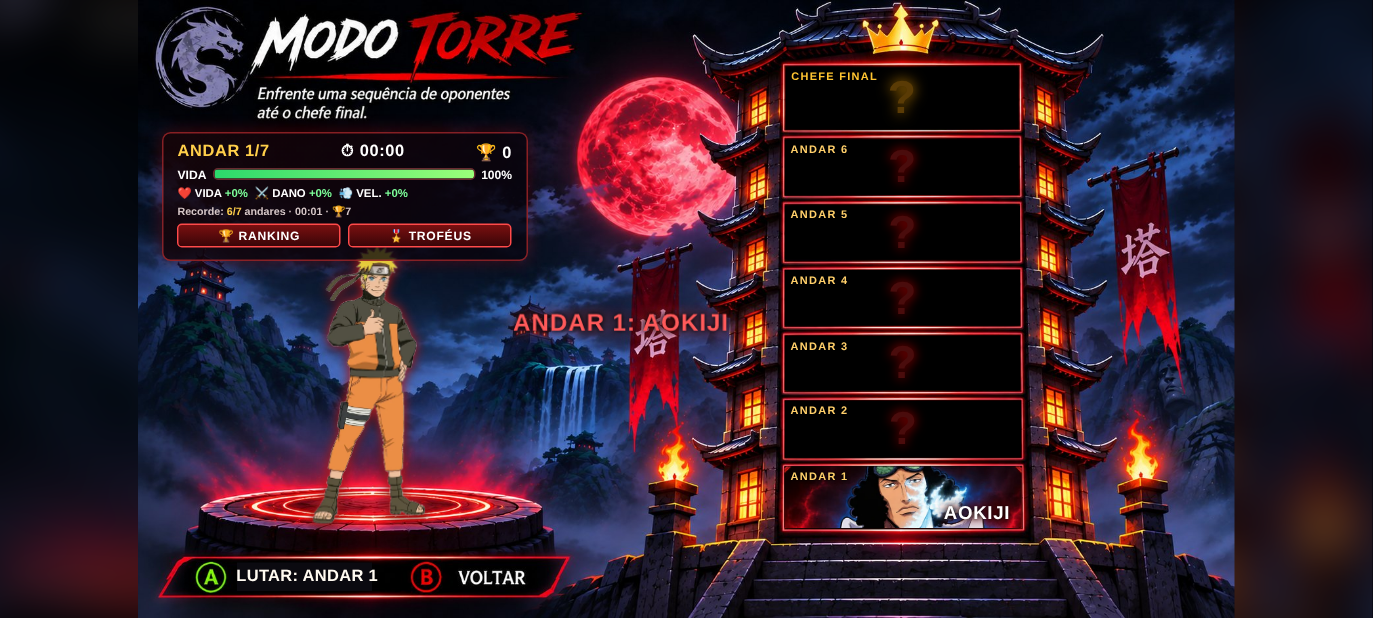
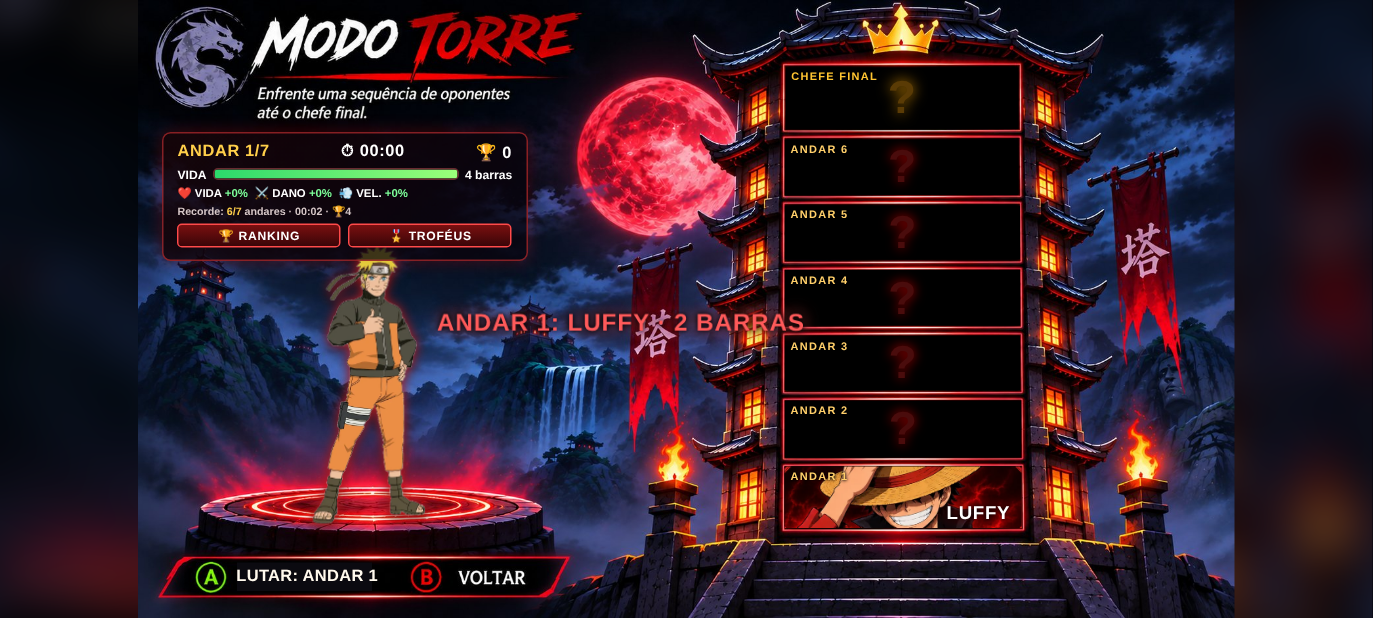
v172: Torre — jogador 4 barras, rivais 2→7 barras, chefe bem mais forte, carta de barra de vida extra
Claude-Session: https://claude.ai/code/session_01KtrZTmDkLnY2EE7eHvUsq1

diff --git a/www/index.html b/www/index.html
@@ -4811,10 +4811,10 @@ function drawHUD(){finOverlay();if(G.fzLines){const L=G.fzLines,u=L.t/L.life;ctx
     band(h0,h1,1,13,4);if(LY>=2){const gb=ctx.createLinearGradient(X(h0),0,X(h1),0);gb.addColorStop(0,'#178a2a');gb.addColorStop(1,'#3fbf52');ctx.fillStyle=gb}else ctx.fillStyle='#06100a';ctx.fill();
     if(lag>fr){band(h0+hl*(side?0:0),h0+hl*lag,1,13,4);ctx.fillStyle='#ff4757';ctx.fill()}
     if(fr>0){band(h0,h0+hl*fr,1,13,4);const crit=fr<.25,g=ctx.createLinearGradient(X(h0),0,X(h0+hl),0);
-      if(crit&&LY===1){const p=.5+.5*Math.sin(t*.25);g.addColorStop(0,'#ff2b2b');g.addColorStop(1,`rgb(255,${120+p*100|0},${120+p*100|0})`)}else if(LY>=2){const LC=[0,0,['#ff9d00','#ffd23f','#fff6c8'],['#ff3b8a','#ff7ab8','#ffe0ef'],['#7a3bff','#b07aff','#efe0ff']][Math.min(4,LY)];g.addColorStop(0,LC[0]);g.addColorStop(.55,LC[1]);g.addColorStop(1,LC[2])}else{g.addColorStop(0,'#21c93a');g.addColorStop(.55,'#5df06b');g.addColorStop(1,'#ffffff')}
+      if(crit&&LY===1){const p=.5+.5*Math.sin(t*.25);g.addColorStop(0,'#ff2b2b');g.addColorStop(1,`rgb(255,${120+p*100|0},${120+p*100|0})`)}else if(LY>=2){const LC=[0,0,['#ff9d00','#ffd23f','#fff6c8'],['#ff3b8a','#ff7ab8','#ffe0ef'],['#7a3bff','#b07aff','#efe0ff'],['#0090ff','#5fd8ff','#e0f8ff'],['#e01010','#ff6a4a','#ffe0d0'],['#ff9a00','#ffe066','#ffffff']][Math.min(7,LY)];g.addColorStop(0,LC[0]);g.addColorStop(.55,LC[1]);g.addColorStop(1,LC[2])}else{g.addColorStop(0,'#21c93a');g.addColorStop(.55,'#5df06b');g.addColorStop(1,'#ffffff')}
       ctx.fillStyle=g;ctx.fill();band(h0,h0+hl*fr,1,5,1.5);ctx.fillStyle='rgba(255,255,255,.35)';ctx.fill()}
     band(h0,h1,1,13,4);ctx.strokeStyle='rgba(255,255,255,.25)';ctx.lineWidth=1;ctx.stroke();if(f.form)hudBarFx(f,side,X,yt,h0,h1);
-    const NL=Math.round(MAXHP/LAYER);for(let i=0;i<NL;i++){const px=h1-10-i*15;band(px,px+10,-9,7,3);const on=i<LY;ctx.fillStyle=on?['#5df06b','#ffd23f','#ff7ab8','#b07aff'][i]:'rgba(255,255,255,.15)';if(on){ctx.save();ctx.shadowColor=ctx.fillStyle;ctx.shadowBlur=8;ctx.fill();ctx.restore()}else ctx.fill()}
+    const NL=Math.round((f.mhp||MAXHP)/LAYER);for(let i=0;i<NL;i++){const px=h1-10-i*15;band(px,px+10,-9,7,3);const on=i<LY;ctx.fillStyle=on?['#5df06b','#ffd23f','#ff7ab8','#b07aff','#5fd8ff','#ff5a4a','#ffe066'][i]:'rgba(255,255,255,.15)';if(on){ctx.save();ctx.shadowColor=ctx.fillStyle;ctx.shadowBlur=8;ctx.fill();ctx.restore()}else ctx.fill()}
     // KI segments
     const n=6,kl=hl*.62,gw=6,sw=(kl-gw*(n-1))/n;
     const KX=(a,i)=>{const x=f.kx||0;for(const [L,c1,c2] of [[0,'#ffb07a','#ff4a14'],[1,'#e8fbff','#2fb4ff']]){const q=clamp((x-L*100-i*100/n)/(100/n),0,1);if(q<=0)continue;band(a,a+sw*q,19,8,4);const g=ctx.createLinearGradient(0,yt(a)+19,0,yt(a)+27);g.addColorStop(0,c1);g.addColorStop(1,c2);ctx.fillStyle=g;if(f.spark>0){ctx.save();ctx.shadowColor=c2;ctx.shadowBlur=12+6*Math.sin(t*.4);ctx.fill();ctx.restore()}else ctx.fill()}};
@@ -5160,7 +5160,7 @@ function endRound(){
   if(w>=0)G.wins[w]++;
   if(G.wins[0]>=2||G.wins[1]>=2){showResult();return}
   G.round++;startRound()}
-function timeOver(){G.phase='ko';G.phaseT=0;const bh=s=>TAG.on&&TAG.bench[s]&&!TAG.bench[s].ko?TAG.bench[s].hp:0,a=G.p[0].hp+bh(0),b=G.p[1].hp+bh(1);G.koWinner=a===b?-1:a>b?0:1;banner('TEMPO!','#ffd23f',90);SFX.bell();annc('a_time',.1)}
+function timeOver(){G.phase='ko';G.phaseT=0;const bh=s=>TAG.on&&TAG.bench[s]&&!TAG.bench[s].ko?TAG.bench[s].hp:0,a=(G.p[0].hp+bh(0))/(G.p[0].mhp||MAXHP),b=(G.p[1].hp+bh(1))/(G.p[1].mhp||MAXHP);G.koWinner=a===b?-1:a>b?0:1;banner('TEMPO!','#ffd23f',90);SFX.bell();annc('a_time',.1)}
 function phaseLogic(){
   G.phaseT++;
   if(G.phase==='intro'){if(G.phaseT===52)annc('a_ready');if(G.phaseT===76){SFX.boom();annc('a_fight');G.flash=Math.max(G.flash,4);G.flashCol='#ffffff';G.shake=Math.max(G.shake,6)}if(G.phaseT>=104){G.phase='fight';twBossGo()}}
@@ -5168,7 +5168,7 @@ function phaseLogic(){
   else if(G.phase==='ko'){
     const w=G.koWinner;
     if(G.phaseT<120&&w>=0){const l=G.p[1-w];G.tz=G.phaseT<26?1.3:1.12;G.tzx=sxs(l.x);G.tzy=sys(l.y-110)}else if(G.phaseT>=150&&w>=0){const wf=G.p[w];G.tz=1.14;G.tzx=sxs(wf.x);G.tzy=sys(wf.y-150)}else G.tz=1;
-    if(G.phaseT===150){if(w>=0){const wf=G.p[w];wf.state='win';wf.st=0;wf.vx=0;flashL(wf.x,wf.y-130,E(wf),420,.8,40);ring(wf.x,wf.y-120,E2(wf),180,24,6);{const lf=G.p[1-w];if(!lf.ko&&lf.grounded){lf.state='lose';lf.st=0;lf.vx=0}}if(!wf.grounded){wf.flying=false}banner(wf.hp>=MAXHP?'PERFEITO!':wf.def.name+' VENCE!',E2(wf),110);if(wf.hp>=MAXHP)annc('a_perfect',.1);else if(G.wins[w]+1<2)nv(['vEVictory','vEWinner'][(Math.random()*2)|0],.1);fvox(wf,pick(['f_easy','f_stay','f_come']),true)}else{banner('EMPATE','#ffffff',90);annc('a_draw',.1)}}
+    if(G.phaseT===150){if(w>=0){const wf=G.p[w];wf.state='win';wf.st=0;wf.vx=0;flashL(wf.x,wf.y-130,E(wf),420,.8,40);ring(wf.x,wf.y-120,E2(wf),180,24,6);{const lf=G.p[1-w];if(!lf.ko&&lf.grounded){lf.state='lose';lf.st=0;lf.vx=0}}if(!wf.grounded){wf.flying=false}banner(wf.hp>=(wf.mhp||MAXHP)?'PERFEITO!':wf.def.name+' VENCE!',E2(wf),110);if(wf.hp>=(wf.mhp||MAXHP))annc('a_perfect',.1);else if(G.wins[w]+1<2)nv(['vEVictory','vEWinner'][(Math.random()*2)|0],.1);fvox(wf,pick(['f_easy','f_stay','f_come']),true)}else{banner('EMPATE','#ffffff',90);annc('a_draw',.1)}}
     if(G.phaseT>=270)endRound()}
 }
 function annWatch(){if(G.mode!=='fight')return;const ws=G.ws,k=ws?(ws.gg||ws.vg||ws.br||1):0;
@@ -5248,7 +5248,8 @@ const TWTR={win:{n:'Vitória',i:'🏆',d:'Vencer um andar',p:1},rap:{n:'Relâmpa
   fio:{n:'Por um Fio',i:'🩸',d:'Vencer com menos de 15% de vida',p:2},cmb:{n:'Mestre do Combo',i:'👊',d:'Fazer um combo de 10 golpes ou mais',p:1},ult:{n:'Ultimate!',i:'💥',d:'Usar uma Ultimate na luta',p:1},
   boss:{n:'Caçador de Chefe',i:'👑',d:'Derrotar o chefe final',p:3},bossr:{n:'Rei Relâmpago',i:'🔥',d:'Derrotar o chefe em menos de 60 segundos',p:4},
   tor:{n:'Torre Conquistada',i:'🏯',d:'Vencer os 7 andares',p:5},spd:{n:'Speedrun',i:'⏱',d:'Completar a torre em menos de 6 minutos',p:5},lend:{n:'Bênção Lendária',i:'🌟',d:'Ganhar uma passiva lendária',p:1}};
-const TW={on:false,pick:null,opps:[],fl:0,rev:false,hp:1,pas:{vida:0,dano:0,vel:0},time:0,tr:[],fs:null,busy:false,sent:false,diff0:1,last:null};
+const TWOB=[2,3,3,4,5,6,7],TWPB=4,TWMB=7;
+const TW={on:false,pick:null,opps:[],fl:0,rev:false,hp:1,bars:TWPB,hpv:TWPB*LAYER,pas:{vida:0,dano:0,vel:0},time:0,tr:[],fs:null,busy:false,sent:false,diff0:1,last:null};
 window.__TW=TW;
 const twLS={g:(k,d)=>{try{const v=localStorage.getItem(k);return v==null?d:JSON.parse(v)}catch(e){return d}},s:(k,v)=>{try{localStorage.setItem(k,JSON.stringify(v))}catch(e){}}};
 const twEsc=s=>String(s).replace(/[&<>"']/g,c=>({'&':'&amp;','<':'&lt;','>':'&gt;','"':'&quot;',"'":'&#39;'}[c]));
@@ -5281,13 +5282,13 @@ function twRender(){twBuild();
   const me=$('twMe').querySelector('img');const src=fullSrc(TW.pick);if(me.getAttribute('src')!==src)me.src=src;
   $('twFl').textContent=(TW.on&&TW.fl===TWN-1?'CHEFE':'ANDAR '+Math.min(TWN,TW.fl+(TW.on?1:0))+'/'+TWN);
   $('twTm').textContent=twFmt(TW.time);$('twTr').textContent=twTrofP();
-  const hp=Math.round(TW.hp*100);$('twHp').style.width=hp+'%';$('twHpT').textContent=hp+'%';$('twHp').className=hp<30?'lo':hp<60?'md':'';
+  TW.hp=TW.hpv/(TW.bars*LAYER);const hp=Math.round(TW.hp*100);$('twHp').style.width=hp+'%';$('twHpT').textContent=TW.bars+' barras';$('twHp').className=hp<30?'lo':hp<60?'md':'';
   $('twPs').innerHTML=TWPT.map(p=>`<span>${p.i} ${p.n==='VELOCIDADE'?'VEL.':p.n} <b>+${TW.pas[p.k]}%</b></span>`).join('');
   const R=twLS.g('tw_rec',null);$('twRec').innerHTML=R?`Recorde: <b>${R.andar}/7</b> andares · ${twFmt(R.tempo)} · 🏆${R.trof}`:'Recorde: nenhum ainda';
   const L=$('twGoL');L.textContent=!TW.on?'':TW.busy?'...':TW.rev?(TW.fl===TWN-1?'LUTAR: CHEFE!':'LUTAR: ANDAR '+(TW.fl+1)):'';L.hidden=!TW.on;
   $('twGo').classList.toggle('off',TW.busy)}
 function twOpen(){if(!G.pick||G.pick==='random'||!CH[G.pick])G.pick=ALLC[(Math.random()*ALLC.length)|0];
-  TW.pick=G.pick;TW.on=false;TW.opps=[];TW.fl=0;TW.rev=false;TW.hp=1;TW.pas={vida:0,dano:0,vel:0};TW.time=0;TW.tr=[];TW.busy=false;TW.last=null;
+  TW.pick=G.pick;TW.on=false;TW.opps=[];TW.fl=0;TW.rev=false;TW.hp=1;TW.bars=TWPB;TW.hpv=TWPB*LAYER;TW.pas={vida:0,dano:0,vel:0};TW.time=0;TW.tr=[];TW.busy=false;TW.last=null;
   twBuild();twRender();twModal(null);showScreen('tower');layoutTw()}
 function layoutTw(){}
 function twToast(t,c){const T=$('twToast');if(!T)return;T.textContent=t;T.style.color=c||'#ffd23f';T.classList.remove('on');void T.offsetWidth;T.classList.add('on')}
@@ -5295,10 +5296,10 @@ function twToast(t,c){const T=$('twToast');if(!T)return;T.textContent=t;T.style.
 function twGo(){if(TW.busy||!$('twModal').hidden)return;audioInit();
   if(!TW.on){twStart();return}
   if(TW.rev)twFight()}
-function twStart(){TW.opps=twShuf(TWC.filter(x=>x!==TW.pick)).slice(0,TWN);TW.on=true;TW.fl=0;TW.rev=false;TW.hp=1;TW.pas={vida:0,dano:0,vel:0};TW.time=0;TW.tr=[];TW.sent=false;TW.last=null;TW.diff0=G.diff;
+function twStart(){TW.opps=twShuf(TWC.filter(x=>x!==TW.pick)).slice(0,TWN);TW.on=true;TW.fl=0;TW.rev=false;TW.hp=1;TW.bars=TWPB;TW.hpv=TWPB*LAYER;TW.pas={vida:0,dano:0,vel:0};TW.time=0;TW.tr=[];TW.sent=false;TW.last=null;TW.diff0=G.diff;
   twSfx('whoosh');try{nv('vMChallenge',.05,1)}catch(e){}twRender();setTimeout(()=>twReveal(0),350)}
 function twReveal(i){TW.rev=true;twRender();const el=twSlot(i);el.classList.add('anim');twSfx('boom');
-  twToast(i===TWN-1?'👑 CHEFE FINAL: '+CH[TW.opps[i]].name:'ANDAR '+(i+1)+': '+CH[TW.opps[i]].name,i===TWN-1?'#ffc531':'#ff5a5a');try{fsTry()}catch(e){}}
+  twToast((i===TWN-1?'👑 CHEFE FINAL: ':'ANDAR '+(i+1)+': ')+CH[TW.opps[i]].name+' · '+TWOB[i]+' BARRAS',i===TWN-1?'#ffc531':'#ff5a5a');try{fsTry()}catch(e){}}
 function twFight(){if(TW.busy)return;TW.busy=true;twRender();twSfx('whoosh');
   G.gmode='torre';G.opp=TW.opps[TW.fl];G.diff=[0,0,1,1,2,2,3][TW.fl];
   const sk=Object.keys(STG).filter(k=>!STG[k].hid);G.nextStg=sk[(Math.random()*sk.length)|0];
@@ -5306,19 +5307,19 @@ function twFight(){if(TW.busy)return;TW.busy=true;twRender();twSfx('whoosh');
   const PM=prepMatch([G.pick,G.opp],G.nextStg);showVS(()=>PM.then(()=>{vsLoadEnd();TW.busy=false;startMatch()}),PM)}
 /* chamado no fim do setupFighters: vida que sobrou, passivas e dificuldade do andar */
 function twApply(){if(!(TW.on&&G.gmode==='torre'))return;const [p,o]=G.p,b=TW.fl===TWN-1;
-  p.hp=p.hpLag=Math.max(1,Math.round(MAXHP*TW.hp));p.tdm=1+TW.pas.dano/100;p.tsp=1+TW.pas.vel/100;p.tdf=1/(1+TW.pas.vida/100);
-  o.tdm=1+.07*TW.fl;o.tdf=b?.6:1-.035*TW.fl;if(TW.fl>=3)o.ki=60;if(b){o.ki=100;o.sb=Math.max(o.sb||0,SB_COST)}
-  TW.fs={t:0,cmb:0,ult:0,hp0:TW.hp}}
+  p.mhp=TW.bars*LAYER;p.hp=p.hpLag=Math.max(1,Math.min(p.mhp,Math.round(TW.hpv)));p.tdm=1+TW.pas.dano/100;p.tsp=1+TW.pas.vel/100;p.tdf=1/(1+TW.pas.vida/100);
+  o.mhp=TWOB[TW.fl]*LAYER;o.hp=o.hpLag=o.mhp;o.tdm=b?1.6:1+.08*TW.fl;o.tdf=b?.85:1;if(TW.fl>=3)o.ki=60;if(b){o.ki=100;o.sb=Math.max(o.sb||0,SB_COST);o.tsp=1.12}
+  TW.fs={t:0,cmb:0,ult:0,hp0:p.hp/p.mhp}}
 function twTick(){const F=TW.fs;if(!F||!G.p)return;F.t++;const c=G.p[0].combo||0;if(c>F.cmb)F.cmb=c}
-function twBossGo(){if(!(TW.on&&G.gmode==='torre'&&TW.fl===TWN-1&&G.p))return;const o=G.p[1];
+function twBossGo(){if(!(TW.on&&G.gmode==='torre'&&G.p))return;if(G.tlim!==0)G.timer=Math.min(240,60+20*TWOB[TW.fl]);if(TW.fl!==TWN-1)return;const o=G.p[1];
   banner('CHEFE FINAL','#ffc531',90,o.def.name+' · TRANSFORMADO');if(o.form)return;o.sb=Math.max(o.sb||0,SB_COST);try{startTransform(o)}catch(e){}}
 function twAfter(w){G.mode='tower';$('controls').hidden=true;$('pauseBtn').hidden=true;rainSound(0);G.paused=false;
   const F=TW.fs||{t:0,cmb:0,ult:0,hp0:TW.hp},secs=F.t/60,p=G.p[0];TW.time+=secs;
   if(w!==0){twFinish(false);return}
-  const hpE=Math.max(.01,p.hp/MAXHP),boss=TW.fl===TWN-1,ks=['win'];
+  const hpE=Math.max(.01,p.hp/(p.mhp||MAXHP)),boss=TW.fl===TWN-1,ks=['win'];
   if(secs<30)ks.push('rap');if(F.hp0-hpE<=.02)ks.push('int');if(hpE<.15)ks.push('fio');if(F.cmb>=10)ks.push('cmb');if(F.ult>0)ks.push('ult');
   if(boss){ks.push('boss');if(secs<60)ks.push('bossr')}
-  TW.hp=hpE;const won=TW.fl;TW.fl++;TW.rev=false;
+  TW.hpv=Math.max(1,p.hp);TW.hp=TW.hpv/(TW.bars*LAYER);const won=TW.fl;TW.fl++;TW.rev=false;
   if(TW.fl>=TWN){ks.push('tor');if(TW.time<360)ks.push('spd')}
   for(const k of ks)TW.tr.push({k,fl:won});
   try{nv(TW.fl>=TWN?'vCongratulations':['vEWin','vEWinner','vEVictory'][(Math.random()*3)|0],.2,1)}catch(e){}
@@ -5327,13 +5328,15 @@ function twAfter(w){G.mode='tower';$('controls').hidden=true;$('pauseBtn').hidde
   setTimeout(()=>{if(TW.fl>=TWN)twFinish(true,false,ks);else twPassive(ks,won)},1500)}
 function twTrofHTML(ks){return ks.map((k,i)=>`<span class="twT" style="animation-delay:${i*.12}s"><i>${TWTR[k].i}</i><b>${TWTR[k].n}</b><span>+${TWTR[k].p}</span></span>`).join('')}
 function twRoll(){let r=Math.random()*100;for(const R of TWRAR){if((r-=R.w)<0)return R}return TWRAR[0]}
+const TWBAR={k:'barra',n:'BARRA DE VIDA',i:'💚',d:'+1 barra de vida (máx. 7)'};
 function twPassive(ks,won){const opts=twShuf(TWPT.slice()).map((p,i)=>{const R=twRoll();return {p,R,v:R.v[TWPT.indexOf(p)]}});
+  if(TW.bars<TWMB&&Math.random()<.3){const i=(Math.random()*3)|0;opts[i]={p:TWBAR,R:Math.random()<.35?TWRAR[3]:TWRAR[2],v:1}}
   twModal(`<div class="twM"><h3>ANDAR ${won+1} VENCIDO!</h3><div class="twTs">${twTrofHTML(ks)}</div>
-    <h4>ESCOLHA UMA PASSIVA</h4><div class="twPs">${opts.map((o,i)=>`<button class="twp ${o.R.k}" data-i="${i}" style="--c:${o.R.c};animation-delay:${.25+i*.15}s"><span class="rr">${o.R.n}</span><span class="ic">${o.p.i}</span><b>+${o.v}%</b><span class="nm">${o.p.n}</span><span class="ds">${o.p.d}</span></button>`).join('')}</div>
-    <p class="twH">Você vai recuperar <b>60%</b> da vida antes da próxima luta.</p></div>`);
+    <h4>ESCOLHA UMA PASSIVA</h4><div class="twPs">${opts.map((o,i)=>`<button class="twp ${o.R.k}" data-i="${i}" style="--c:${o.R.c};animation-delay:${.25+i*.15}s"><span class="rr">${o.R.n}</span><span class="ic">${o.p.i}</span><b>+${o.v}${o.p.k==='barra'?'':'%'}</b><span class="nm">${o.p.n}</span><span class="ds">${o.p.d}</span></button>`).join('')}</div>
+    <p class="twH">Você vai recuperar <b>60%</b> da vida antes da próxima luta. Próximo rival: <b>${TWOB[won+1]||7} barras</b>.</p></div>`);
   if(opts.some(o=>o.R.k==='lend'))twSfx('powerUp');
-  document.querySelectorAll('#twModal .twp').forEach(b=>b.onclick=()=>{const o=opts[+b.dataset.i];TW.pas[o.p.k]+=o.v;if(o.R.k==='lend'&&!TW.tr.some(t=>t.k==='lend'))TW.tr.push({k:'lend',fl:won});
-    twSfx('powerUp');b.classList.add('pick');setTimeout(()=>{twModal(null);const h0=TW.hp;TW.hp=Math.min(1,TW.hp+.6);twRender();twToast('+'+Math.round((TW.hp-h0)*100)+'% VIDA · '+o.p.i+' +'+o.v+'% '+o.p.n,'#7dff9a');
+  document.querySelectorAll('#twModal .twp').forEach(b=>b.onclick=()=>{const o=opts[+b.dataset.i];if(o.p.k==='barra'){TW.bars=Math.min(TWMB,TW.bars+1);TW.hpv+=LAYER}else TW.pas[o.p.k]+=o.v;if(o.R.k==='lend'&&!TW.tr.some(t=>t.k==='lend'))TW.tr.push({k:'lend',fl:won});
+    twSfx('powerUp');b.classList.add('pick');setTimeout(()=>{twModal(null);const M=TW.bars*LAYER,h0=TW.hpv;TW.hpv=Math.min(M,TW.hpv+.6*M);twRender();twToast(o.p.k==='barra'?'💚 +1 BARRA DE VIDA ('+TW.bars+')':'+'+Math.round((TW.hpv-h0)/M*100)+'% VIDA · '+o.p.i+' +'+o.v+'% '+o.p.n,'#7dff9a');
       setTimeout(()=>twReveal(TW.fl),900)},380)})}
 function twFinish(won,quit,ks){const andar=won?TWN:TW.fl,rec={andar,tempo:Math.round(TW.time),trof:twTrofP(),char:TW.pick,d:Date.now()};
   TW.on=false;TW.busy=false;G.diff=TW.diff0;if(!won&&!quit)try{nv('vGameOver',.3,1)}catch(e){}
@@ -5390,7 +5393,7 @@ function twBackF(){if(!$('twModal').hidden)return;twSfx('whoosh');
 function twQuitFight(){G.paused=false;rainSound(0);$('controls').hidden=true;$('pauseBtn').hidden=true;G.mode='tower';TW.time+=(TW.fs?TW.fs.t:0)/60;twFinish(false,true)}
 /* ultimates usadas pelo jogador (troféu) */
 {const _sr=trySR;trySR=function(f,o){const r=_sr(f,o);if(r&&TW.on&&TW.fs&&G.p&&f===G.p[0])TW.fs.ult++;return r}}
-LV[3]={react:5,agg:.92,blk:.8,combo:.97,idle:3};
+LV[3]={react:3,agg:.97,blk:.88,combo:1,idle:1};
 
 const screens=['title','config','modes','select','stages','how','pause','result','vs','tower'];let howFrom='title';
 function showScreen(id){const was=showScreen.cur;showScreen.cur=id;if(id!==was){if(id==='select'){const k=Math.random()<.5?'nSel':'nSel2';if(!smp(k,1,{vox:1}))setTimeout(()=>{if(showScreen.cur==='select')smp(k,1,{vox:1})},900)}else if(id==='stages')smp('nStg',1,{vox:1});else if(id==='vs')nv('vMVersus',.25,1);else if(id==='modes')nv('vMChallenge',.1,1)}screens.forEach(s=>$(s).hidden=s!==id)}

diff --git a/ferramentas/web/torre/torre.js b/ferramentas/web/torre/torre.js
@@ -12,7 +12,8 @@ const TWTR={win:{n:'Vitória',i:'🏆',d:'Vencer um andar',p:1},rap:{n:'Relâmpa
   fio:{n:'Por um Fio',i:'🩸',d:'Vencer com menos de 15% de vida',p:2},cmb:{n:'Mestre do Combo',i:'👊',d:'Fazer um combo de 10 golpes ou mais',p:1},ult:{n:'Ultimate!',i:'💥',d:'Usar uma Ultimate na luta',p:1},
   boss:{n:'Caçador de Chefe',i:'👑',d:'Derrotar o chefe final',p:3},bossr:{n:'Rei Relâmpago',i:'🔥',d:'Derrotar o chefe em menos de 60 segundos',p:4},
   tor:{n:'Torre Conquistada',i:'🏯',d:'Vencer os 7 andares',p:5},spd:{n:'Speedrun',i:'⏱',d:'Completar a torre em menos de 6 minutos',p:5},lend:{n:'Bênção Lendária',i:'🌟',d:'Ganhar uma passiva lendária',p:1}};
-const TW={on:false,pick:null,opps:[],fl:0,rev:false,hp:1,pas:{vida:0,dano:0,vel:0},time:0,tr:[],fs:null,busy:false,sent:false,diff0:1,last:null};
+const TWOB=[2,3,3,4,5,6,7],TWPB=4,TWMB=7;
+const TW={on:false,pick:null,opps:[],fl:0,rev:false,hp:1,bars:TWPB,hpv:TWPB*LAYER,pas:{vida:0,dano:0,vel:0},time:0,tr:[],fs:null,busy:false,sent:false,diff0:1,last:null};
 window.__TW=TW;
 const twLS={g:(k,d)=>{try{const v=localStorage.getItem(k);return v==null?d:JSON.parse(v)}catch(e){return d}},s:(k,v)=>{try{localStorage.setItem(k,JSON.stringify(v))}catch(e){}}};
 const twEsc=s=>String(s).replace(/[&<>"']/g,c=>({'&':'&amp;','<':'&lt;','>':'&gt;','"':'&quot;',"'":'&#39;'}[c]));
@@ -45,13 +46,13 @@ function twRender(){twBuild();
   const me=$('twMe').querySelector('img');const src=fullSrc(TW.pick);if(me.getAttribute('src')!==src)me.src=src;
   $('twFl').textContent=(TW.on&&TW.fl===TWN-1?'CHEFE':'ANDAR '+Math.min(TWN,TW.fl+(TW.on?1:0))+'/'+TWN);
   $('twTm').textContent=twFmt(TW.time);$('twTr').textContent=twTrofP();
-  const hp=Math.round(TW.hp*100);$('twHp').style.width=hp+'%';$('twHpT').textContent=hp+'%';$('twHp').className=hp<30?'lo':hp<60?'md':'';
+  TW.hp=TW.hpv/(TW.bars*LAYER);const hp=Math.round(TW.hp*100);$('twHp').style.width=hp+'%';$('twHpT').textContent=TW.bars+' barras';$('twHp').className=hp<30?'lo':hp<60?'md':'';
   $('twPs').innerHTML=TWPT.map(p=>`<span>${p.i} ${p.n==='VELOCIDADE'?'VEL.':p.n} <b>+${TW.pas[p.k]}%</b></span>`).join('');
   const R=twLS.g('tw_rec',null);$('twRec').innerHTML=R?`Recorde: <b>${R.andar}/7</b> andares · ${twFmt(R.tempo)} · 🏆${R.trof}`:'Recorde: nenhum ainda';
   const L=$('twGoL');L.textContent=!TW.on?'':TW.busy?'...':TW.rev?(TW.fl===TWN-1?'LUTAR: CHEFE!':'LUTAR: ANDAR '+(TW.fl+1)):'';L.hidden=!TW.on;
   $('twGo').classList.toggle('off',TW.busy)}
 function twOpen(){if(!G.pick||G.pick==='random'||!CH[G.pick])G.pick=ALLC[(Math.random()*ALLC.length)|0];
-  TW.pick=G.pick;TW.on=false;TW.opps=[];TW.fl=0;TW.rev=false;TW.hp=1;TW.pas={vida:0,dano:0,vel:0};TW.time=0;TW.tr=[];TW.busy=false;TW.last=null;
+  TW.pick=G.pick;TW.on=false;TW.opps=[];TW.fl=0;TW.rev=false;TW.hp=1;TW.bars=TWPB;TW.hpv=TWPB*LAYER;TW.pas={vida:0,dano:0,vel:0};TW.time=0;TW.tr=[];TW.busy=false;TW.last=null;
   twBuild();twRender();twModal(null);showScreen('tower');layoutTw()}
 function layoutTw(){}
 function twToast(t,c){const T=$('twToast');if(!T)return;T.textContent=t;T.style.color=c||'#ffd23f';T.classList.remove('on');void T.offsetWidth;T.classList.add('on')}
@@ -59,10 +60,10 @@ function twToast(t,c){const T=$('twToast');if(!T)return;T.textContent=t;T.style.
 function twGo(){if(TW.busy||!$('twModal').hidden)return;audioInit();
   if(!TW.on){twStart();return}
   if(TW.rev)twFight()}
-function twStart(){TW.opps=twShuf(TWC.filter(x=>x!==TW.pick)).slice(0,TWN);TW.on=true;TW.fl=0;TW.rev=false;TW.hp=1;TW.pas={vida:0,dano:0,vel:0};TW.time=0;TW.tr=[];TW.sent=false;TW.last=null;TW.diff0=G.diff;
+function twStart(){TW.opps=twShuf(TWC.filter(x=>x!==TW.pick)).slice(0,TWN);TW.on=true;TW.fl=0;TW.rev=false;TW.hp=1;TW.bars=TWPB;TW.hpv=TWPB*LAYER;TW.pas={vida:0,dano:0,vel:0};TW.time=0;TW.tr=[];TW.sent=false;TW.last=null;TW.diff0=G.diff;
   twSfx('whoosh');try{nv('vMChallenge',.05,1)}catch(e){}twRender();setTimeout(()=>twReveal(0),350)}
 function twReveal(i){TW.rev=true;twRender();const el=twSlot(i);el.classList.add('anim');twSfx('boom');
-  twToast(i===TWN-1?'👑 CHEFE FINAL: '+CH[TW.opps[i]].name:'ANDAR '+(i+1)+': '+CH[TW.opps[i]].name,i===TWN-1?'#ffc531':'#ff5a5a');try{fsTry()}catch(e){}}
+  twToast((i===TWN-1?'👑 CHEFE FINAL: ':'ANDAR '+(i+1)+': ')+CH[TW.opps[i]].name+' · '+TWOB[i]+' BARRAS',i===TWN-1?'#ffc531':'#ff5a5a');try{fsTry()}catch(e){}}
 function twFight(){if(TW.busy)return;TW.busy=true;twRender();twSfx('whoosh');
   G.gmode='torre';G.opp=TW.opps[TW.fl];G.diff=[0,0,1,1,2,2,3][TW.fl];
   const sk=Object.keys(STG).filter(k=>!STG[k].hid);G.nextStg=sk[(Math.random()*sk.length)|0];
@@ -70,19 +71,19 @@ function twFight(){if(TW.busy)return;TW.busy=true;twRender();twSfx('whoosh');
   const PM=prepMatch([G.pick,G.opp],G.nextStg);showVS(()=>PM.then(()=>{vsLoadEnd();TW.busy=false;startMatch()}),PM)}
 /* chamado no fim do setupFighters: vida que sobrou, passivas e dificuldade do andar */
 function twApply(){if(!(TW.on&&G.gmode==='torre'))return;const [p,o]=G.p,b=TW.fl===TWN-1;
-  p.hp=p.hpLag=Math.max(1,Math.round(MAXHP*TW.hp));p.tdm=1+TW.pas.dano/100;p.tsp=1+TW.pas.vel/100;p.tdf=1/(1+TW.pas.vida/100);
-  o.tdm=1+.07*TW.fl;o.tdf=b?.6:1-.035*TW.fl;if(TW.fl>=3)o.ki=60;if(b){o.ki=100;o.sb=Math.max(o.sb||0,SB_COST)}
-  TW.fs={t:0,cmb:0,ult:0,hp0:TW.hp}}
+  p.mhp=TW.bars*LAYER;p.hp=p.hpLag=Math.max(1,Math.min(p.mhp,Math.round(TW.hpv)));p.tdm=1+TW.pas.dano/100;p.tsp=1+TW.pas.vel/100;p.tdf=1/(1+TW.pas.vida/100);
+  o.mhp=TWOB[TW.fl]*LAYER;o.hp=o.hpLag=o.mhp;o.tdm=b?1.6:1+.08*TW.fl;o.tdf=b?.85:1;if(TW.fl>=3)o.ki=60;if(b){o.ki=100;o.sb=Math.max(o.sb||0,SB_COST);o.tsp=1.12}
+  TW.fs={t:0,cmb:0,ult:0,hp0:p.hp/p.mhp}}
 function twTick(){const F=TW.fs;if(!F||!G.p)return;F.t++;const c=G.p[0].combo||0;if(c>F.cmb)F.cmb=c}
-function twBossGo(){if(!(TW.on&&G.gmode==='torre'&&TW.fl===TWN-1&&G.p))return;const o=G.p[1];
+function twBossGo(){if(!(TW.on&&G.gmode==='torre'&&G.p))return;if(G.tlim!==0)G.timer=Math.min(240,60+20*TWOB[TW.fl]);if(TW.fl!==TWN-1)return;const o=G.p[1];
   banner('CHEFE FINAL','#ffc531',90,o.def.name+' · TRANSFORMADO');if(o.form)return;o.sb=Math.max(o.sb||0,SB_COST);try{startTransform(o)}catch(e){}}
 function twAfter(w){G.mode='tower';$('controls').hidden=true;$('pauseBtn').hidden=true;rainSound(0);G.paused=false;
   const F=TW.fs||{t:0,cmb:0,ult:0,hp0:TW.hp},secs=F.t/60,p=G.p[0];TW.time+=secs;
   if(w!==0){twFinish(false);return}
-  const hpE=Math.max(.01,p.hp/MAXHP),boss=TW.fl===TWN-1,ks=['win'];
+  const hpE=Math.max(.01,p.hp/(p.mhp||MAXHP)),boss=TW.fl===TWN-1,ks=['win'];
   if(secs<30)ks.push('rap');if(F.hp0-hpE<=.02)ks.push('int');if(hpE<.15)ks.push('fio');if(F.cmb>=10)ks.push('cmb');if(F.ult>0)ks.push('ult');
   if(boss){ks.push('boss');if(secs<60)ks.push('bossr')}
-  TW.hp=hpE;const won=TW.fl;TW.fl++;TW.rev=false;
+  TW.hpv=Math.max(1,p.hp);TW.hp=TW.hpv/(TW.bars*LAYER);const won=TW.fl;TW.fl++;TW.rev=false;
   if(TW.fl>=TWN){ks.push('tor');if(TW.time<360)ks.push('spd')}
   for(const k of ks)TW.tr.push({k,fl:won});
   try{nv(TW.fl>=TWN?'vCongratulations':['vEWin','vEWinner','vEVictory'][(Math.random()*3)|0],.2,1)}catch(e){}
@@ -91,13 +92,15 @@ function twAfter(w){G.mode='tower';$('controls').hidden=true;$('pauseBtn').hidde
   setTimeout(()=>{if(TW.fl>=TWN)twFinish(true,false,ks);else twPassive(ks,won)},1500)}
 function twTrofHTML(ks){return ks.map((k,i)=>`<span class="twT" style="animation-delay:${i*.12}s"><i>${TWTR[k].i}</i><b>${TWTR[k].n}</b><span>+${TWTR[k].p}</span></span>`).join('')}
 function twRoll(){let r=Math.random()*100;for(const R of TWRAR){if((r-=R.w)<0)return R}return TWRAR[0]}
+const TWBAR={k:'barra',n:'BARRA DE VIDA',i:'💚',d:'+1 barra de vida (máx. 7)'};
 function twPassive(ks,won){const opts=twShuf(TWPT.slice()).map((p,i)=>{const R=twRoll();return {p,R,v:R.v[TWPT.indexOf(p)]}});
+  if(TW.bars<TWMB&&Math.random()<.3){const i=(Math.random()*3)|0;opts[i]={p:TWBAR,R:Math.random()<.35?TWRAR[3]:TWRAR[2],v:1}}
   twModal(`<div class="twM"><h3>ANDAR ${won+1} VENCIDO!</h3><div class="twTs">${twTrofHTML(ks)}</div>
-    <h4>ESCOLHA UMA PASSIVA</h4><div class="twPs">${opts.map((o,i)=>`<button class="twp ${o.R.k}" data-i="${i}" style="--c:${o.R.c};animation-delay:${.25+i*.15}s"><span class="rr">${o.R.n}</span><span class="ic">${o.p.i}</span><b>+${o.v}%</b><span class="nm">${o.p.n}</span><span class="ds">${o.p.d}</span></button>`).join('')}</div>
-    <p class="twH">Você vai recuperar <b>60%</b> da vida antes da próxima luta.</p></div>`);
+    <h4>ESCOLHA UMA PASSIVA</h4><div class="twPs">${opts.map((o,i)=>`<button class="twp ${o.R.k}" data-i="${i}" style="--c:${o.R.c};animation-delay:${.25+i*.15}s"><span class="rr">${o.R.n}</span><span class="ic">${o.p.i}</span><b>+${o.v}${o.p.k==='barra'?'':'%'}</b><span class="nm">${o.p.n}</span><span class="ds">${o.p.d}</span></button>`).join('')}</div>
+    <p class="twH">Você vai recuperar <b>60%</b> da vida antes da próxima luta. Próximo rival: <b>${TWOB[won+1]||7} barras</b>.</p></div>`);
   if(opts.some(o=>o.R.k==='lend'))twSfx('powerUp');
-  document.querySelectorAll('#twModal .twp').forEach(b=>b.onclick=()=>{const o=opts[+b.dataset.i];TW.pas[o.p.k]+=o.v;if(o.R.k==='lend'&&!TW.tr.some(t=>t.k==='lend'))TW.tr.push({k:'lend',fl:won});
-    twSfx('powerUp');b.classList.add('pick');setTimeout(()=>{twModal(null);const h0=TW.hp;TW.hp=Math.min(1,TW.hp+.6);twRender();twToast('+'+Math.round((TW.hp-h0)*100)+'% VIDA · '+o.p.i+' +'+o.v+'% '+o.p.n,'#7dff9a');
+  document.querySelectorAll('#twModal .twp').forEach(b=>b.onclick=()=>{const o=opts[+b.dataset.i];if(o.p.k==='barra'){TW.bars=Math.min(TWMB,TW.bars+1);TW.hpv+=LAYER}else TW.pas[o.p.k]+=o.v;if(o.R.k==='lend'&&!TW.tr.some(t=>t.k==='lend'))TW.tr.push({k:'lend',fl:won});
+    twSfx('powerUp');b.classList.add('pick');setTimeout(()=>{twModal(null);const M=TW.bars*LAYER,h0=TW.hpv;TW.hpv=Math.min(M,TW.hpv+.6*M);twRender();twToast(o.p.k==='barra'?'💚 +1 BARRA DE VIDA ('+TW.bars+')':'+'+Math.round((TW.hpv-h0)/M*100)+'% VIDA · '+o.p.i+' +'+o.v+'% '+o.p.n,'#7dff9a');
       setTimeout(()=>twReveal(TW.fl),900)},380)})}
 function twFinish(won,quit,ks){const andar=won?TWN:TW.fl,rec={andar,tempo:Math.round(TW.time),trof:twTrofP(),char:TW.pick,d:Date.now()};
   TW.on=false;TW.busy=false;G.diff=TW.diff0;if(!won&&!quit)try{nv('vGameOver',.3,1)}catch(e){}
@@ -154,4 +157,4 @@ function twBackF(){if(!$('twModal').hidden)return;twSfx('whoosh');
 function twQuitFight(){G.paused=false;rainSound(0);$('controls').hidden=true;$('pauseBtn').hidden=true;G.mode='tower';TW.time+=(TW.fs?TW.fs.t:0)/60;twFinish(false,true)}
 /* ultimates usadas pelo jogador (troféu) */
 {const _sr=trySR;trySR=function(f,o){const r=_sr(f,o);if(r&&TW.on&&TW.fs&&G.p&&f===G.p[0])TW.fs.ult++;return r}}
-LV[3]={react:5,agg:.92,blk:.8,combo:.97,idle:3};
+LV[3]={react:3,agg:.97,blk:.88,combo:1,idle:1};

diff --git a/ferramentas/testes/ttorre.js b/ferramentas/testes/ttorre.js
@@ -15,16 +15,16 @@ await p.click('#mTorre');await wait(500);await p.click('.tile[data-c="naruto"]')
 await p.click('#goStage');await wait(800);await shot('tela');
 await p.click('#twGo');await wait(1600);await shot('revela');
 const fight=async(lose)=>{await p.click('#twGo');await p.waitForFunction(()=>__dbg.G.mode==='fight'&&__dbg.G.phase==='fight',null,{timeout:120000});await wait(400);
-  const st=await p.evaluate(()=>{const G=__dbg.G,[a,o]=G.p;return {opp:o.def.id,diff:G.diff,hp:a.hp,tdm:a.tdm,tsp:a.tsp,tdf:a.tdf,otdm:o.tdm,otdf:o.tdf,oform:o.form,trans:!!G.trans,stg:__dbg.stg(),ring:G.ring&&G.ring.title}});console.log('LUTA',JSON.stringify(st));
-  await p.evaluate((lose)=>{const G=__dbg.G;if(lose){G.p[0].hp=50}else{G.p[1].hp=50;G.p[0].combo=11}G.timer=1;G.tf=59},lose);
+  const st=await p.evaluate(()=>{const G=__dbg.G,[a,o]=G.p;return {opp:o.def.id,diff:G.diff,hp:a.hp,tdm:a.tdm,tsp:a.tsp,tdf:a.tdf,otdm:o.tdm,otdf:o.tdf,oform:o.form,trans:!!G.trans,pm:a.mhp,om:o.mhp,ohp:o.hp,timer:G.timer,stg:__dbg.stg(),ring:G.ring&&G.ring.title}});console.log('LUTA',JSON.stringify(st));
+  await p.evaluate((lose)=>{const G=__dbg.G;if(lose){G.p[0].hp=50}else{G.p[1].hp=50;G.p[0].hp=G.p[0].mhp*.5;G.p[0].combo=11}G.timer=1;G.tf=59},lose);
   await p.waitForFunction(()=>__dbg.G.mode==='tower',null,{timeout:60000})};
 await fight(false);await wait(700);await shot('x');await p.waitForSelector('#twModal .twp');await wait(1200);await shot('passiva');
-await p.click('#twModal .twp[data-i="1"]');await wait(1800);await shot('depois');
-console.log('TW',JSON.stringify(await p.evaluate(()=>({fl:__TW.fl,hp:__TW.hp,pas:__TW.pas,tr:__TW.tr.map(t=>t.k)}))));
+await p.evaluate(()=>{const b=[...document.querySelectorAll('#twModal .twp')].find(x=>x.textContent.includes('BARRA'));window.__pickB=!!b});await p.click('#twModal .twp[data-i="1"]');await wait(1800);await shot('depois');
+console.log('TW',JSON.stringify(await p.evaluate(()=>({bars:__TW.bars,hpv:__TW.hpv,fl:__TW.fl,hp:__TW.hp,pas:__TW.pas,tr:__TW.tr.map(t=>t.k)}))));
 // pula pro chefe
 await p.evaluate(()=>{__TW.fl=6;__TW.rev=true;document.querySelector('#twGo').click()});await p.waitForFunction(()=>__dbg.G.mode==='fight'&&__dbg.G.phase==='fight',null,{timeout:120000});
-await wait(1500);console.log('CHEFE',JSON.stringify(await p.evaluate(()=>({opp:__dbg.G.p[1].def.id,trans:!!__dbg.G.trans,form:__dbg.G.p[1].form,diff:__dbg.G.diff}))));await shot('chefe');
-await p.waitForFunction(()=>!__dbg.G.trans,null,{timeout:60000});await wait(500);console.log('CHEFE2',JSON.stringify(await p.evaluate(()=>({form:__dbg.G.p[1].form}))));
+await wait(1500);console.log('CHEFE',JSON.stringify(await p.evaluate(()=>({om:__dbg.G.p[1].mhp,pm:__dbg.G.p[0].mhp,timer:__dbg.G.timer,opp:__dbg.G.p[1].def.id,trans:!!__dbg.G.trans,form:__dbg.G.p[1].form,diff:__dbg.G.diff}))));await shot('chefe');
+await p.waitForFunction(()=>!__dbg.G.trans,null,{timeout:60000});await wait(800);await shot('chefe_hud');console.log('CHEFE2',JSON.stringify(await p.evaluate(()=>({form:__dbg.G.p[1].form}))));
 await p.evaluate(()=>{const G=__dbg.G;G.p[0].hp=50;G.timer=1;G.tf=59});await p.waitForFunction(()=>__dbg.G.mode==='tower',null,{timeout:60000});await wait(1500);await shot('derrota');
 await p.fill('#twName','Denilson');await p.click('#twSendB');await wait(800);await shot('enviado');console.log('ENVIADO',JSON.stringify(SENT));
 await p.click('#twRk');await wait(800);await shot('ranking');

diff --git a/ferramentas/web/patch_torre.py b/ferramentas/web/patch_torre.py
@@ -34,4 +34,10 @@ rep("(f.slowT>0?.55:1)}","(f.slowT>0?.55:1)*(f.tsp||1)}")
 rep("MAXHP=LAYER*(G.lives||2);G.teams=G.gmode==='torre'?[[G.pick],G.tower.slice()]:","MAXHP=LAYER*(G.gmode==='torre'?2:(G.lives||2));G.teams=G.gmode==='torre'?null:")
 rep("function endRound(){\n  const w=G.koWinner;","function endRound(){\n  const w=G.koWinner;if(G.gmode==='torre'&&TW.on){twAfter(w);return}")
 rep("if(G.gmode==='treino'){G.p[0].sb=6;G.p[0].ki=100}","if(G.gmode==='treino'){G.p[0].sb=6;G.p[0].ki=100}twApply();")
+rep("const NL=Math.round(MAXHP/LAYER);","const NL=Math.round((f.mhp||MAXHP)/LAYER);")
+rep("['#5df06b','#ffd23f','#ff7ab8','#b07aff'][i]","['#5df06b','#ffd23f','#ff7ab8','#b07aff','#5fd8ff','#ff5a4a','#ffe066'][i]")
+rep("['#7a3bff','#b07aff','#efe0ff']][Math.min(4,LY)]","['#7a3bff','#b07aff','#efe0ff'],['#0090ff','#5fd8ff','#e0f8ff'],['#e01010','#ff6a4a','#ffe0d0'],['#ff9a00','#ffe066','#ffffff']][Math.min(7,LY)]")
+rep("banner(wf.hp>=MAXHP?","banner(wf.hp>=(wf.mhp||MAXHP)?")
+rep("if(wf.hp>=MAXHP)annc","if(wf.hp>=(wf.mhp||MAXHP))annc")
+rep("a=G.p[0].hp+bh(0),b=G.p[1].hp+bh(1);","a=(G.p[0].hp+bh(0))/(G.p[0].mhp||MAXHP),b=(G.p[1].hp+bh(1))/(G.p[1].mhp||MAXHP);")
 open(P,'w').write(s);print('ok',len(s))

diff --git a/GUIA-CLAUDE.md b/GUIA-CLAUDE.md
@@ -364,3 +364,8 @@ O dono mandou uma especificação ("SISTEMA PROFISSIONAL DE COMBATE 2D": animaç
 - Troféus (`TWTR`, soma pontos 🏆): Vitória +1 (todo andar), Relâmpago <30s +2, Intocável sem perder vida +3, Por um Fio <15% vida +2, Mestre do Combo 10+ golpes +1, Ultimate! +1, Caçador de Chefe +3, Rei Relâmpago chefe <60s +4, Torre Conquistada +5, Speedrun torre <6 min +5, Bênção Lendária +1. Contagem total guardada em `tw_tc`.
 - Recordes: no aparelho `tw_rec` (melhor), `tw_hist` (15 melhores), `tw_nome`. Ordem: mais andares → mais troféus → menos tempo (`twPts`).
 - Ranking online: Firebase do dono, projeto `furia-do-templo` (plano Spark grátis), Firestore coleção `torre`, via REST (sem SDK): grava `nome, andar, tempo, trof, pontos, char, v`; lê `runQuery` ordenado por `pontos` (150, mostra 50, 1 por nome). Regras publicadas: ler livre; criar só com nome texto ≤16, andar int ≤7, tempo int; ninguém edita/apaga. A apiKey do app Web fica no código (é normal, não é senha). Na 1ª vez pede o nome; depois envia sozinho no fim de cada subida.
+
+## v172 — Torre mais difícil: barras de vida
+- Vida por fighter: `f.mhp` (antes só o global `MAXHP`). HUD conta os pontinhos por `f.mhp/LAYER` e tem cores até 7 barras (verde, amarelo, rosa, roxo, azul, vermelho, dourado). "PERFEITO" e o tempo esgotado comparam a FRAÇÃO da vida (`hp/mhp`).
+- Jogador começa com 4 barras (`TWPB`). Rivais por andar `TWOB=[2,3,3,4,5,6,7]` (chefe = 7). Rival bate +8%/andar; chefe bate ×1.6, aguenta ×1/0.85, velocidade ×1.12, IA `LV[3]` quase perfeita (react 3, agg .97, blk .88). Tempo da luta = 60+20×barras do rival (máx. 240; chefe 200).
+- Cartas: 30% de chance (se tiver menos de 7) de uma das 3 virar "💚 BARRA DE VIDA +1" (épica ou lendária). A vida guardada é absoluta (`TW.hpv`); cura de 60% do máximo depois de cada vitória.
